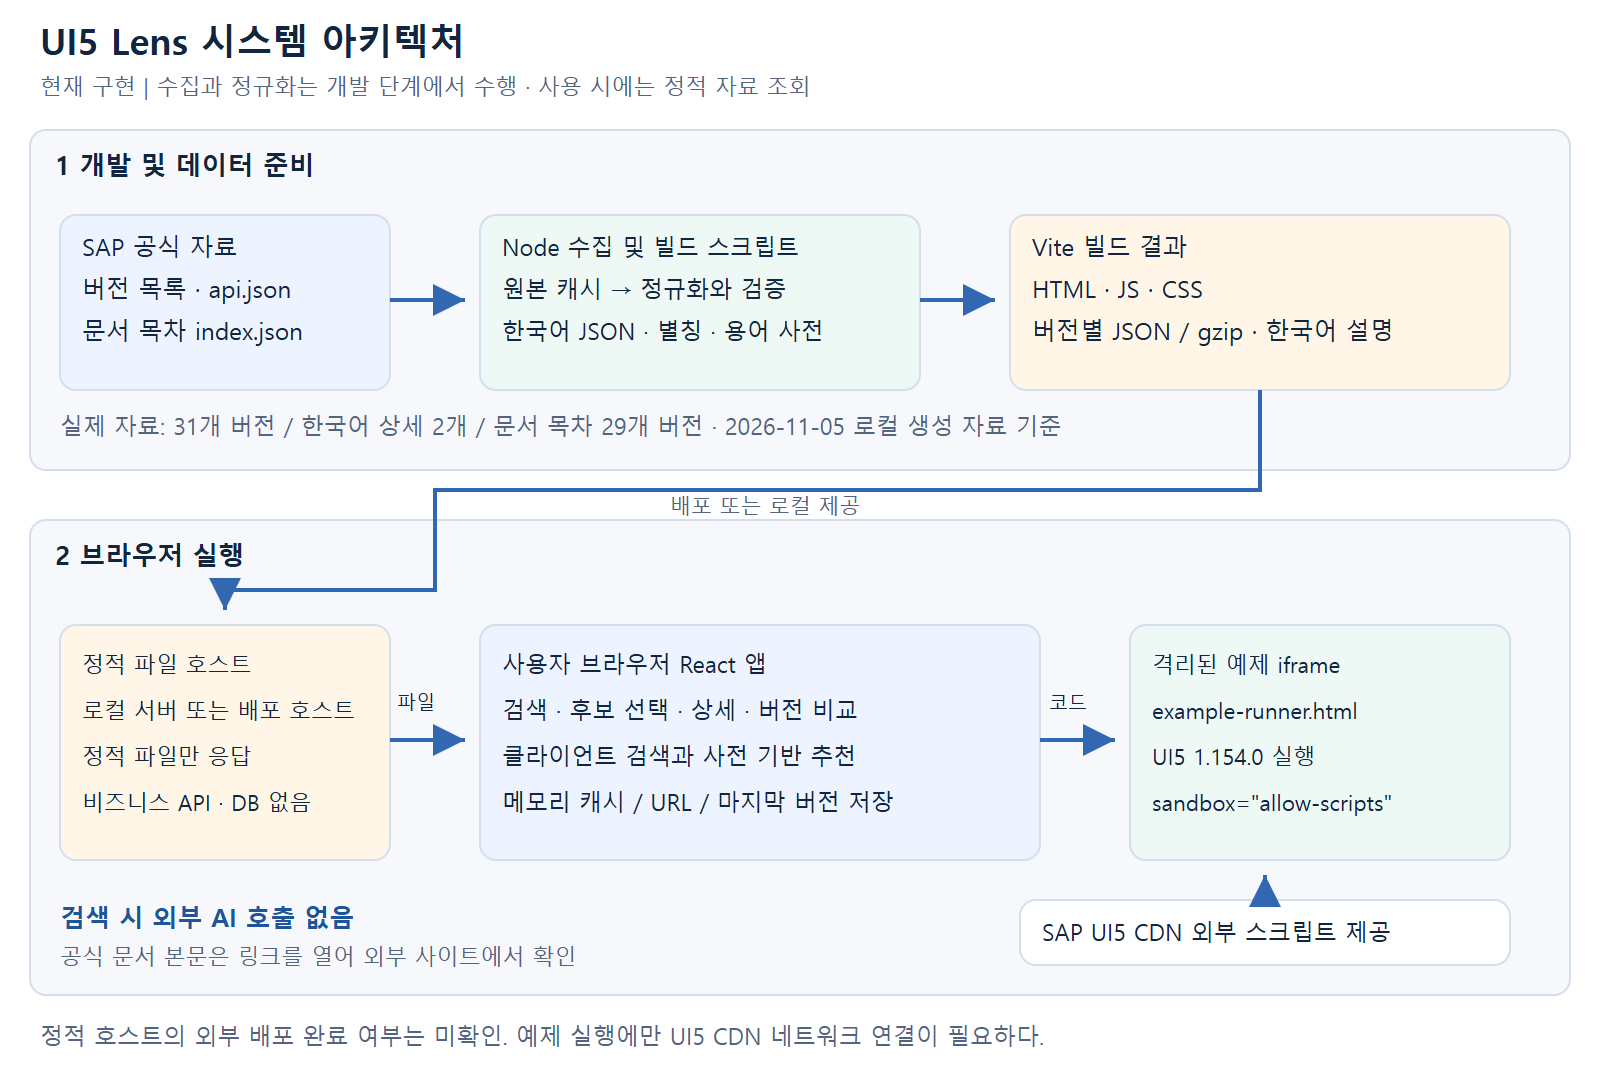
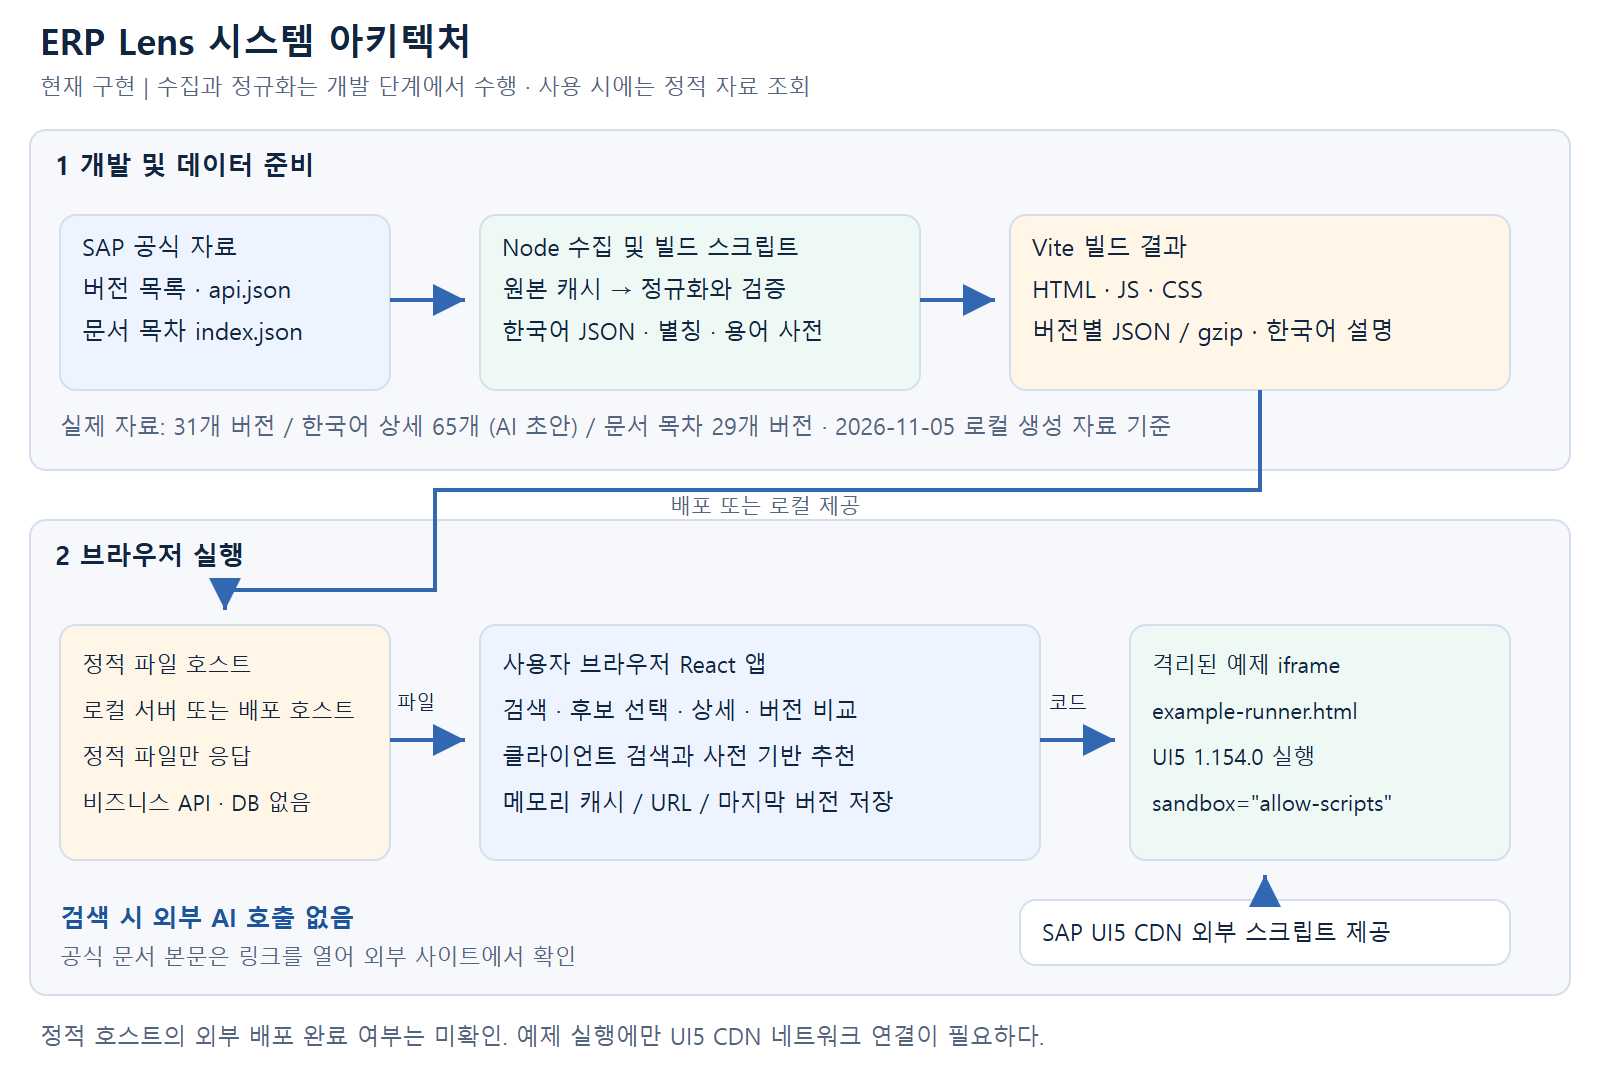
문서·다이어그램 이름을 ERP Lens 로 통일하고 최신 변경 내역 추가

Changed region(s): [[0.25, 0.3743, 0.75, 0.4055], [0.0312, 0.0, 0.3125, 0.0624]]

diff --git a/docs/requirements.md b/docs/requirements.md
@@ -1,11 +1,11 @@
-# UI5 Lens 요구사항 정의서
+# ERP Lens 요구사항 정의서
 
 문서 버전: 1.0  
 구현 확인 기준일: 2026-11-06
 
 한국어 기반 UI5 API 탐색 서비스
 
-UI5 Lens는 UI5 개발자가 API 이름이나 하고 싶은 일을 입력하면 후보를 비교하고, 선택한 API의 구조와 사용 조건을 공식 근거와 함께 탐색하는 웹앱이다. 이 문서는 개발과 기능 검증의 기준으로 사용할 기능 요구사항, 품질 요구사항 및 인수 기준을 정의한다.
+ERP Lens는 UI5 개발자가 API 이름이나 하고 싶은 일을 입력하면 후보를 비교하고, 선택한 API의 구조와 사용 조건을 공식 근거와 함께 탐색하는 웹앱이다. 이 문서는 개발과 기능 검증의 기준으로 사용할 기능 요구사항, 품질 요구사항 및 인수 기준을 정의한다.
 
 > 이 문서는 서비스 목표와 구현 확인 기준일의 코드를 대조해 작성했다. 구현 여부는 전체 요구사항의 인수 완료를 의미하지 않는다. 특히 한국어 상세 설명은 현재 2개 API에만 제공되며, 사람 검토 완료 항목은 없다.
 

diff --git a/docs/README.md b/docs/README.md
@@ -1,6 +1,6 @@
-# UI5 Lens 프로젝트 문서
+# ERP Lens 프로젝트 문서
 
-UI5 Lens는 UI5 API 후보를 검색하고, 선택한 API의 구조·사용 조건·예제를 한국어 설명과 함께 탐색하는 웹앱이다.
+ERP Lens는 UI5 API 후보를 검색하고, 선택한 API의 구조·사용 조건·예제를 한국어 설명과 함께 탐색하는 웹앱이다.
 
 문서 버전: 1.0  
 구현 확인 기준일: 2026-11-05
@@ -47,4 +47,4 @@ PNG는 Markdown에 표시하는 그림이며, SVG는 확대 또는 수정에 사
 
 이 문서 묶음은 프로젝트의 기능과 자체 설계를 설명한다. SAP 공식 문서 원문, 수집한 API 데이터 번들, 인증정보 및 실행 로그는 포함하지 않는다.
 
-UI5 Lens는 SAP가 보증하거나 후원하는 공식 제품이 아니다. 코드와 원본 데이터의 이용 조건은 문서 공개 여부와 별도로 각 자료의 안내를 따른다.
+ERP Lens는 SAP가 보증하거나 후원하는 공식 제품이 아니다. 코드와 원본 데이터의 이용 조건은 문서 공개 여부와 별도로 각 자료의 안내를 따른다.

diff --git a/docs/system-architecture.md b/docs/system-architecture.md
@@ -1,12 +1,12 @@
-# UI5 Lens 시스템 아키텍처
+# ERP Lens 시스템 아키텍처
 
 구현 확인 기준일: 2026-11-05
 
-UI5 Lens는 개발 단계에서 자료를 준비하고, 사용자의 브라우저에서 검색·추천·상세 탐색을 수행하는 정적 웹앱이다. 현재 비즈니스 API 서버, 사용자 데이터베이스, 실시간 AI 추론 서버는 사용하지 않는다.
+ERP Lens는 개발 단계에서 자료를 준비하고, 사용자의 브라우저에서 검색·추천·상세 탐색을 수행하는 정적 웹앱이다. 현재 비즈니스 API 서버, 사용자 데이터베이스, 실시간 AI 추론 서버는 사용하지 않는다.
 
 ## 구성도
 
-![UI5 Lens 시스템 아키텍처](assets/system-architecture.png)
+![ERP Lens 시스템 아키텍처](assets/system-architecture.png)
 
 [벡터 원본 SVG](assets/system-architecture.svg)
 

diff --git a/docs/mvc-design.md b/docs/mvc-design.md
@@ -1,12 +1,12 @@
-# UI5 Lens MVC 역할 설계
+# ERP Lens MVC 역할 설계
 
 구현 확인 기준일: 2026-11-05
 
-UI5 Lens는 React 컴포넌트와 훅을 사용하여 화면, 상호작용 제어, 자료 및 도메인 로직을 나눈다. 고전적인 서버 MVC 프레임워크를 사용한 구현은 아니며, MVC의 책임 구분을 클라이언트 구조에 대응한 설계이다.
+ERP Lens는 React 컴포넌트와 훅을 사용하여 화면, 상호작용 제어, 자료 및 도메인 로직을 나눈다. 고전적인 서버 MVC 프레임워크를 사용한 구현은 아니며, MVC의 책임 구분을 클라이언트 구조에 대응한 설계이다.
 
 ## 구조도
 
-![UI5 Lens MVC 역할 구조](assets/mvc-design.png)
+![ERP Lens MVC 역할 구조](assets/mvc-design.png)
 
 [벡터 원본 SVG](assets/mvc-design.svg)
 

diff --git a/docs/project-design.md b/docs/project-design.md
@@ -1,9 +1,9 @@
-# UI5 Lens 프로젝트 설계서
+# ERP Lens 프로젝트 설계서
 
 문서 버전: 1.0  
 구현 확인 기준일: 2026-11-05
 
-UI5 Lens는 API 이름이나 기능 키워드를 입력하면 후보를 비교하고, 선택한 API의 구조·사용 조건·예제를 공식 출처와 함께 탐색하는 서비스이다. 이 문서는 현재 데이터 구조와 주요 처리 규약을 설명하며, 향후 개선안은 별도로 구분한다.
+ERP Lens는 API 이름이나 기능 키워드를 입력하면 후보를 비교하고, 선택한 API의 구조·사용 조건·예제를 공식 출처와 함께 탐색하는 서비스이다. 이 문서는 현재 데이터 구조와 주요 처리 규약을 설명하며, 향후 개선안은 별도로 구분한다.
 
 ## 1 목표와 범위
 
